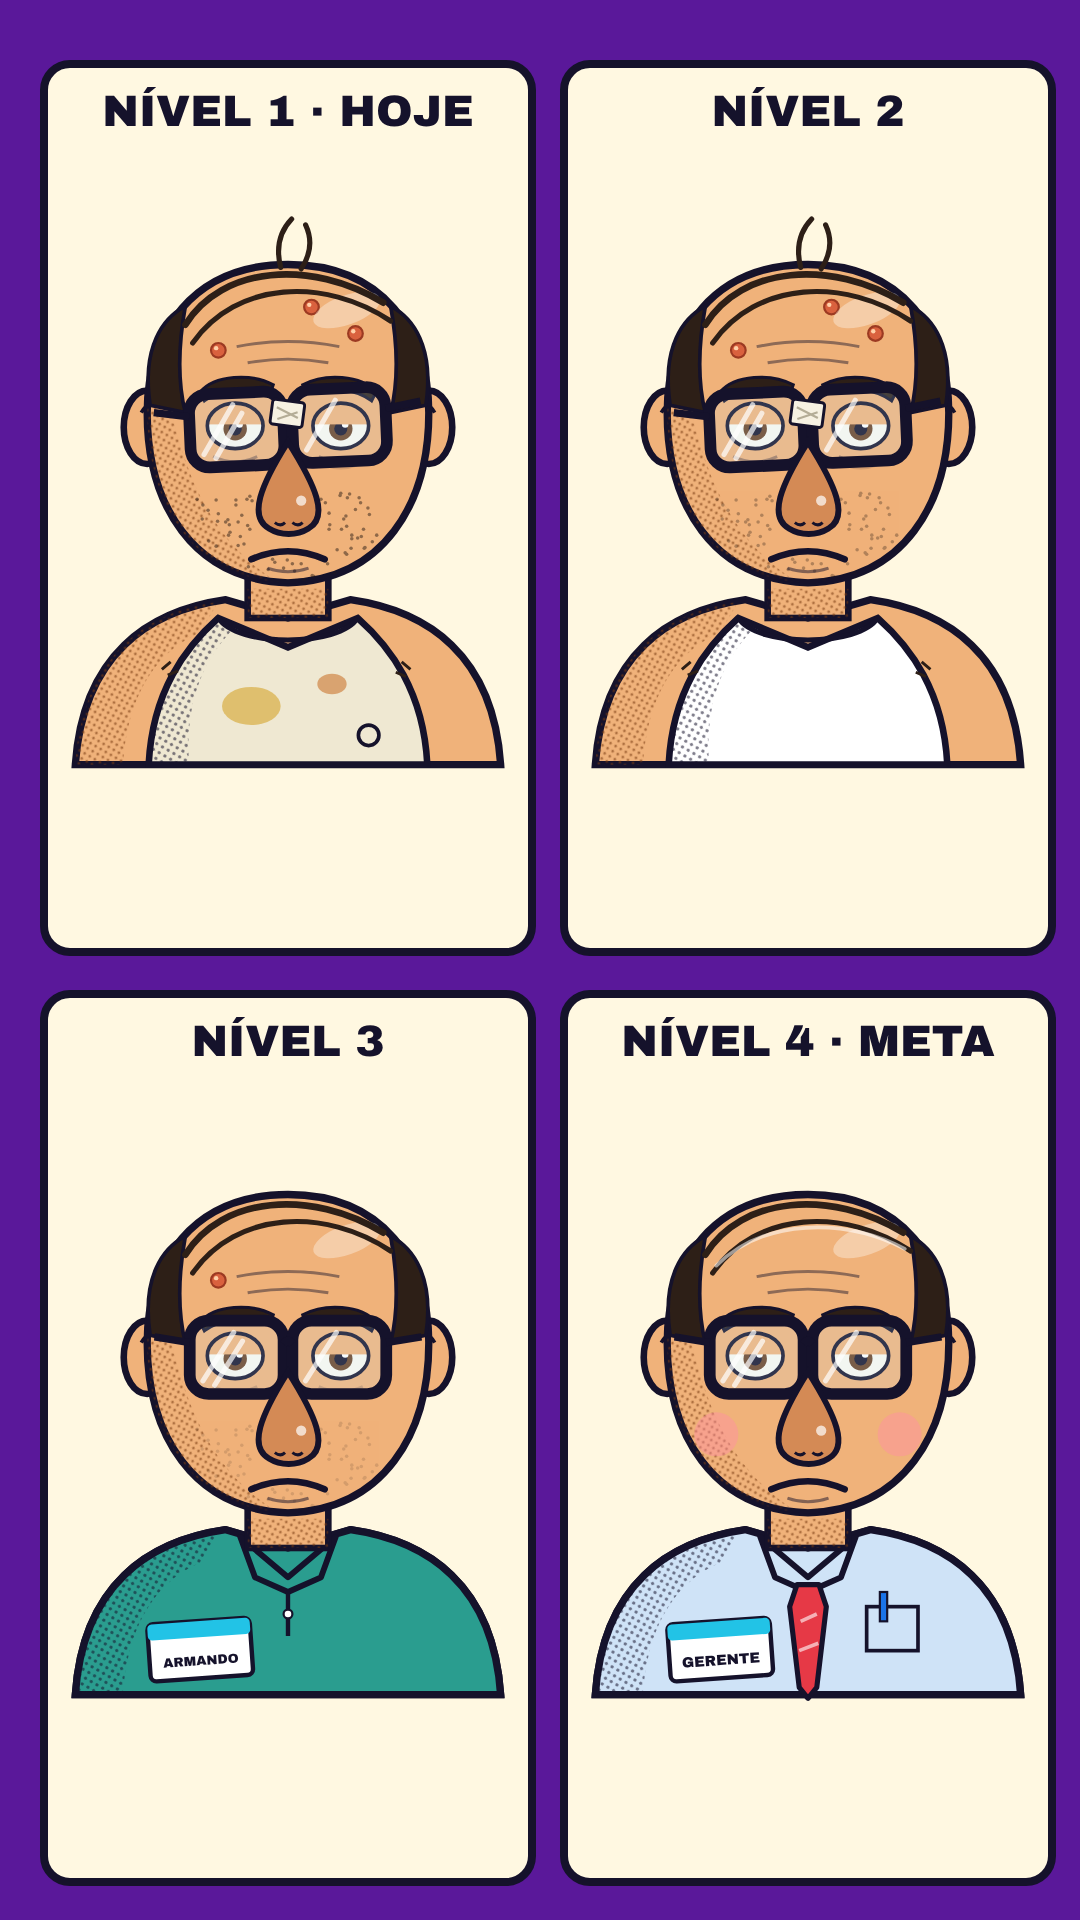
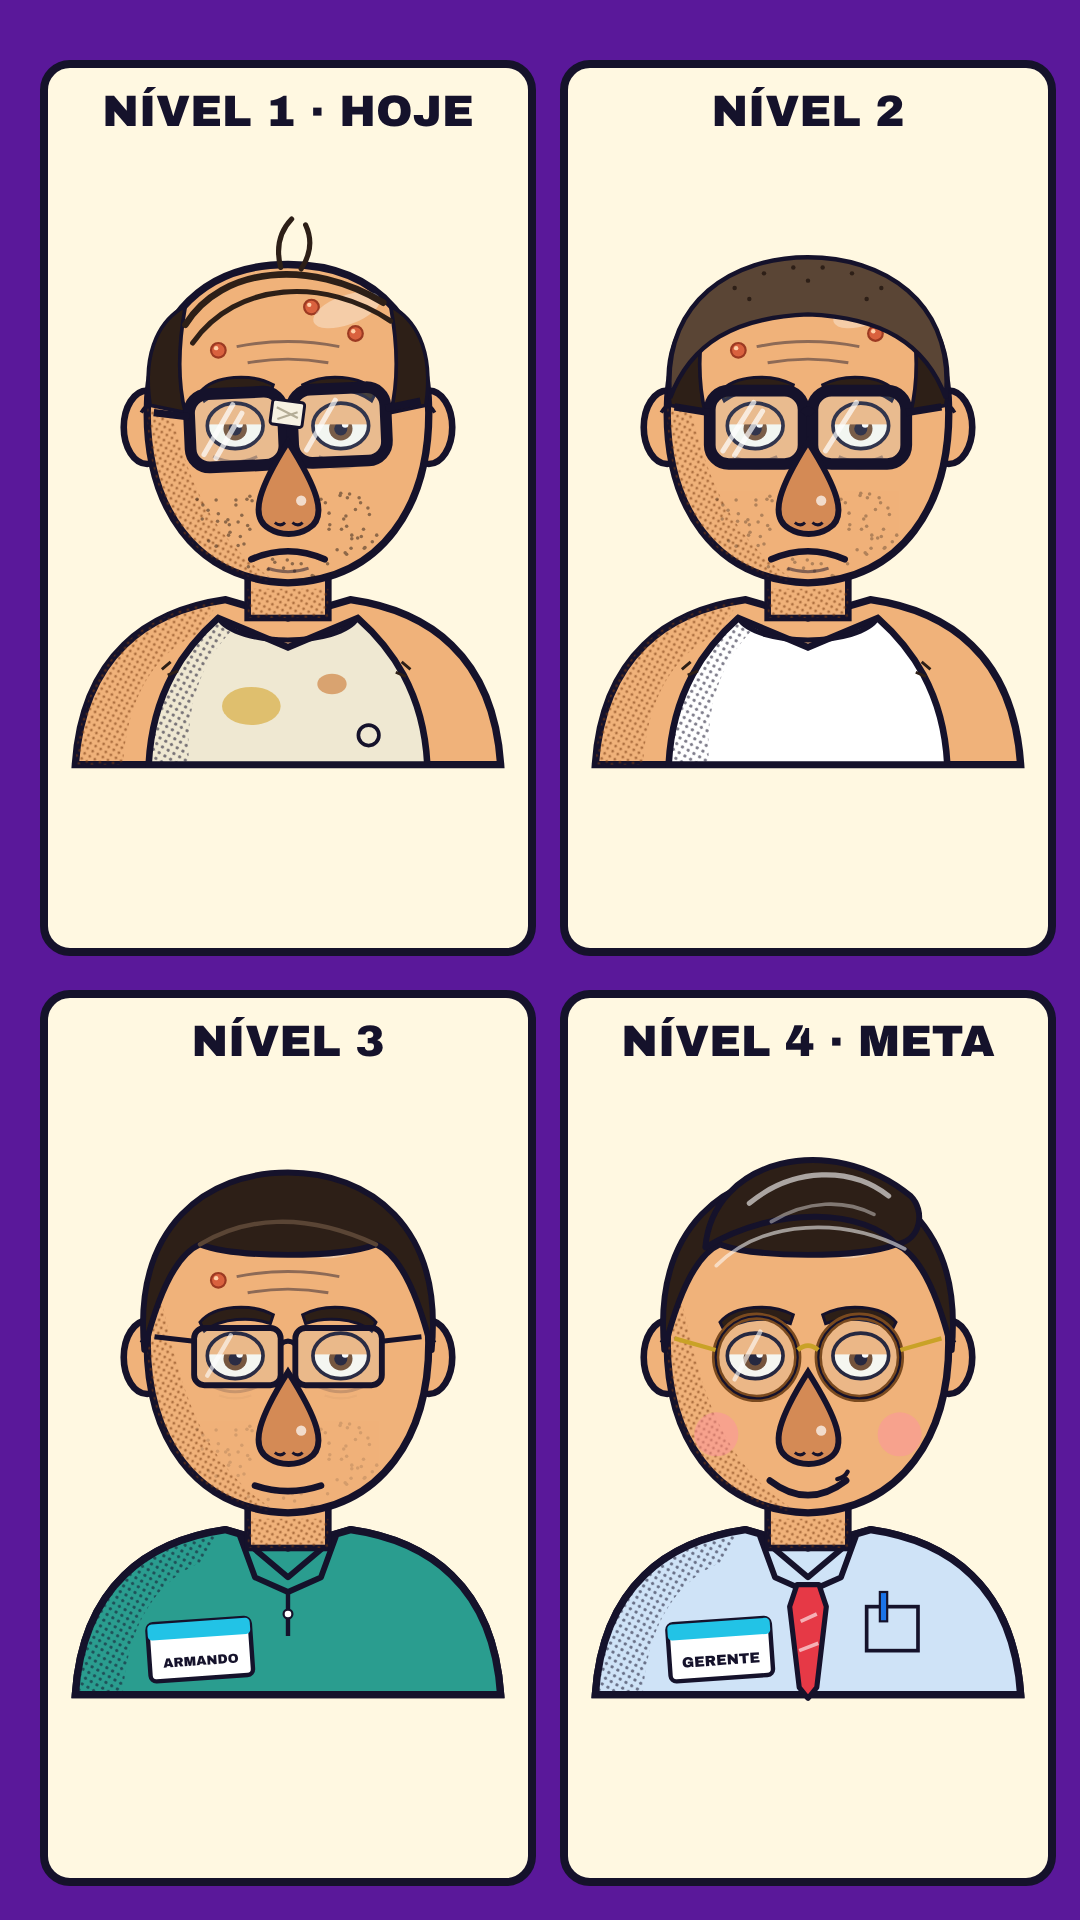
Armando ganha cabelo, troca de óculos e fica mais bonito conforme as barras sobem
Claude-Session: https://claude.ai/code/session_01NohiMdkC2Su1SAJxQxprzv

diff --git a/tools/hq_lib.py b/tools/hq_lib.py
@@ -45,6 +45,66 @@ def _skin(hT):
     return out
 
 
+def _hair(p, lT):
+    """Cabelo por nível de amor (se cuidar): careca → nascendo → curto → topete."""
+    sides = (f'<path d="M112 310 C100 230 130 190 160 175 C150 230 150 280 160 320 Z" fill="{HAIR}" stroke="{INK}" stroke-width="5"/>'
+             f'<path d="M488 310 C500 230 470 190 440 175 C450 230 450 280 440 320 Z" fill="{HAIR}" stroke="{INK}" stroke-width="5"/>')
+    if lT == 0:
+        return sides + (f'<path d="M160 200 C210 120 330 110 430 170" fill="none" stroke="{HAIR}" stroke-width="9" stroke-linecap="round"/>'
+                        f'<path d="M170 225 C230 140 350 135 440 195" fill="none" stroke="{HAIR}" stroke-width="7" stroke-linecap="round"/>')
+    if lT == 1:  # raspado, nascendo
+        return sides + (f'<path d="M112 300 C100 165 200 108 300 108 C400 108 500 165 488 300 C460 225 400 190 300 186 C200 190 140 225 112 300 Z" '
+                        f'fill="#5a4535" stroke="{INK}" stroke-width="6"/>'
+                        f'<g fill="#2d1f17">{"".join(f"<circle cx=\"{x}\" cy=\"{y}\" r=\"3\"/>" for x, y in [(200, 150), (240, 130), (280, 122), (320, 122), (360, 130), (400, 150), (220, 165), (300, 140), (380, 165)])}</g>')
+    full = (f'<path d="M104 330 C88 160 190 88 300 88 C410 88 512 160 496 330 C476 250 452 200 420 186 C370 205 230 205 180 186 C148 200 124 250 104 330 Z" '
+            f'fill="{HAIR}" stroke="{INK}" stroke-width="8" stroke-linejoin="round"/>')
+    if lT == 2:  # curto, penteado de lado
+        return full + f'<path d="M180 186 C240 150 320 140 420 186" fill="none" stroke="#5a4535" stroke-width="6" stroke-linecap="round"/>'
+    # topete com brilho
+    return (full + f'<path d="M160 190 C170 70 330 30 440 120 C460 140 455 180 420 186 C380 140 260 130 160 190 Z" fill="{HAIR}" stroke="{INK}" stroke-width="8" stroke-linejoin="round"/>'
+            f'<path d="M220 130 C280 80 360 80 410 120" fill="none" stroke="#fff" stroke-width="7" stroke-linecap="round" opacity=".6"/>'
+            f'<path d="M250 155 C300 125 350 125 390 145" fill="none" stroke="#fff" stroke-width="5" stroke-linecap="round" opacity=".4"/>')
+
+
+def _glasses(mT):
+    """Óculos por nível de dinheiro: fita → inteiro → moderno → de grife."""
+    if mT <= 1:
+        tape = (f'<rect x="278" y="304" width="44" height="34" rx="4" fill="#f6f1e2" stroke="{INK}" stroke-width="4" transform="rotate(10 300 321)"/>'
+                f'<path d="M286 312 l28 16 M286 328 l28 -8" stroke="#b4ad97" stroke-width="3"/>') if mT == 0 else ""
+        return f'''<g transform="rotate({-2.5 if mT == 0 else 0} 300 340)">
+      <rect x="166" y="290" width="128" height="100" rx="26" fill="rgba(200,235,255,.16)" stroke="{INK}" stroke-width="16"/>
+      <rect x="306" y="290" width="128" height="100" rx="26" fill="rgba(200,235,255,.16)" stroke="{INK}" stroke-width="16"/>
+      <path d="M184 372 L226 306 M200 378 L238 318" stroke="#fff" stroke-width="7" stroke-linecap="round" opacity=".7"/>
+      <path d="M324 372 L366 306" stroke="#fff" stroke-width="7" stroke-linecap="round" opacity=".7"/>
+      <path d="M294 322 Q300 314 306 322" stroke="{INK}" stroke-width="12" fill="none"/>{tape}
+      <path d="M166 320 L118 312 M434 320 L482 312" stroke="{INK}" stroke-width="10"/></g>'''
+    if mT == 2:  # armação moderna fina
+        return f'''<g>
+      <rect x="172" y="300" width="118" height="78" rx="14" fill="rgba(200,235,255,.12)" stroke="{INK}" stroke-width="8"/>
+      <rect x="310" y="300" width="118" height="78" rx="14" fill="rgba(200,235,255,.12)" stroke="{INK}" stroke-width="8"/>
+      <path d="M290 322 Q300 314 310 322" stroke="{INK}" stroke-width="7" fill="none"/>
+      <path d="M190 365 L222 310" stroke="#fff" stroke-width="6" stroke-linecap="round" opacity=".6"/>
+      <path d="M172 318 L118 312 M428 318 L482 312" stroke="{INK}" stroke-width="7"/></g>'''
+    # redondos de grife (tartaruga)
+    return f'''<g>
+      <circle cx="230" cy="340" r="56" fill="rgba(200,235,255,.1)" stroke="#7a4a1f" stroke-width="10"/>
+      <circle cx="370" cy="340" r="56" fill="rgba(200,235,255,.1)" stroke="#7a4a1f" stroke-width="10"/>
+      <circle cx="230" cy="340" r="56" fill="none" stroke="{INK}" stroke-width="3"/><circle cx="370" cy="340" r="56" fill="none" stroke="{INK}" stroke-width="3"/>
+      <path d="M286 330 Q300 318 314 330" stroke="#c9a227" stroke-width="6" fill="none"/>
+      <path d="M200 370 L235 305" stroke="#fff" stroke-width="6" stroke-linecap="round" opacity=".6"/>
+      <path d="M174 330 L118 314 M426 330 L482 314" stroke="#c9a227" stroke-width="6"/></g>'''
+
+
+def _rest_mouth(score):
+    """Boca "parada": triste no começo, neutra no meio, sorriso confiante no fim."""
+    if score >= 9:
+        return f'<path d="M248 508 Q300 548 352 508" fill="none" stroke="{INK}" stroke-width="9" stroke-linecap="round"/><path d="M340 506 q10 -2 14 -10" stroke="{INK}" stroke-width="6" fill="none" stroke-linecap="round"/>'
+    if score >= 6:
+        return f'<path d="M255 515 Q300 530 345 515" fill="none" stroke="{INK}" stroke-width="9" stroke-linecap="round"/>'
+    return (f'<path d="M250 520 Q300 498 350 520" fill="none" stroke="{INK}" stroke-width="9" stroke-linecap="round"/>'
+            f'<path d="M272 532 Q300 542 328 532" fill="none" stroke="{INK}" stroke-width="4" opacity=".5"/>')
+
+
 def _clothes(p, mT, rT):
     """Roupa por nível de dinheiro (+ crachá/gravata pela reputação)."""
     shade = f'<path d="M110 800 C115 700 160 640 205 600 L230 610 C180 660 160 720 165 800 Z" fill="url(#{p}-dots)"/>'
@@ -79,9 +139,9 @@ def _clothes(p, mT, rT):
 def visual_changes(before, after):
     """Lista do que mudou na aparência entre dois estados de barras (para a cena de UPGRADE)."""
     txt = {
-        "health": [["muitas espinhas", "pele amarelada", "olheiras fundas"], ["menos espinhas", "olheiras menores"], ["quase sem espinhas", "olheiras quase sumindo"], ["pele limpa", "sem olheiras", "bochechas coradas"]],
-        "money": [["regata furada e manchada", "óculos com fita"], ["regata nova e limpa"], ["camisa polo", "óculos consertados"], ["camisa social", "caneta no bolso"]],
-        "love": [["barba por fazer", "cabelo arrepiado"], ["barba mais aparada"], ["barba feita", "cabelo penteado"], ["cara lisinha", "cabelo com brilho"]],
+        "health": [["muitas espinhas", "pele amarelada", "olheiras fundas"], ["menos espinhas", "olheiras menores"], ["quase sem espinhas", "olheiras quase sumindo"], ["pele limpa", "sem olheiras", "sem papada"]],
+        "money": [["regata furada e manchada", "óculos com fita"], ["regata nova e limpa", "óculos sem fita"], ["camisa polo", "óculos modernos"], ["camisa social", "óculos de grife"]],
+        "love": [["barba por fazer", "careca"], ["barba aparada", "cabelo nascendo"], ["barba feita", "cabelo curto penteado"], ["cara lisinha", "topete com brilho"]],
         "rep": [["ninguém conhece"], ["sem crachá"], ["crachá da empresa"], ["gravata", "crachá de GERENTE"]],
     }
     icons = {"health": "❤", "money": "💰", "love": "💘", "rep": "⭐"}
@@ -114,7 +174,7 @@ def armando(p, pose="none", bags=None, stats=None):
     if bags is None:
         bags = [1.0, .6, .3, 0.0][hT] if stats else 1.0
     stub_op = [.5, .32, .14, 0][lT]
-    stray = lT < 2
+    stray = lT < 1
     taped = mT < 2
 
     def eye(side, cx):
@@ -196,14 +256,11 @@ def armando(p, pose="none", bags=None, stats=None):
       {_skin(hT)}
       <ellipse cx="380" cy="180" rx="48" ry="20" fill="#fff" opacity=".35" transform="rotate(-20 380 180)"/>
     </g>
-    <path d="M200 525 Q300 575 400 525" fill="none" stroke="{INK}" stroke-width="5" opacity=".6"/>
-    <path d="M112 310 C100 230 130 190 160 175 C150 230 150 280 160 320 Z" fill="{HAIR}" stroke="{INK}" stroke-width="5"/>
-    <path d="M488 310 C500 230 470 190 440 175 C450 230 450 280 440 320 Z" fill="{HAIR}" stroke="{INK}" stroke-width="5"/>
-    <path d="M160 200 C210 120 330 110 430 170" fill="none" stroke="{HAIR}" stroke-width="9" stroke-linecap="round"/>
-    <path d="M170 225 C230 140 350 135 440 195" fill="none" stroke="{HAIR}" stroke-width="7" stroke-linecap="round"/>
+    {'<path d="M200 525 Q300 575 400 525" fill="none" stroke="' + INK + '" stroke-width="5" opacity=".6"/>' if hT < 3 else '<path d="M230 540 Q300 560 370 540" fill="none" stroke="' + INK + '" stroke-width="4" opacity=".35"/>'}
+    {_hair(p, lT)}
     {'<path d="M290 122 q-10 -40 15 -66 M318 124 q20 -30 6 -60" fill="none" stroke="' + HAIR + '" stroke-width="7" stroke-linecap="round"/>' if stray else ''}
     {'<path d="M175 215 C240 150 350 150 432 192" fill="none" stroke="#fff" stroke-width="5" stroke-linecap="round" opacity=".55"/>' if lT == 3 else ''}
-    <path d="M230 230 q70 -14 140 0 M245 252 q55 -10 110 0" fill="none" stroke="{INK}" stroke-width="4" opacity=".45"/>
+    {'<path d="M230 230 q70 -14 140 0 M245 252 q55 -10 110 0" fill="none" stroke="' + INK + '" stroke-width="4" opacity=".45"/>' if hT < 3 else ''}
     <g id="{p}-br-sad" fill="{HAIR}" stroke="{INK}" stroke-width="4">
       <path d="M180 292 C200 268 250 266 280 282 L276 294 C250 284 210 286 186 304 Z"/>
       <path d="M420 292 C400 268 350 266 320 282 L324 294 C350 284 390 286 414 304 Z"/></g>
@@ -216,20 +273,11 @@ def armando(p, pose="none", bags=None, stats=None):
     <g id="{p}-br-angry" opacity="0" fill="{HAIR}" stroke="{INK}" stroke-width="4">
       <path d="M182 268 L284 300 L280 312 L186 286 Z"/><path d="M418 268 L316 300 L320 312 L414 286 Z"/></g>
     {eye("l", 228)}{eye("r", 372)}
-    <g transform="rotate({-2.5 if taped else 0} 300 340)">
-      <rect x="166" y="290" width="128" height="100" rx="26" fill="rgba(200,235,255,.16)" stroke="{INK}" stroke-width="16"/>
-      <rect x="306" y="290" width="128" height="100" rx="26" fill="rgba(200,235,255,.16)" stroke="{INK}" stroke-width="16"/>
-      <path d="M184 372 L226 306 M200 378 L238 318" stroke="#fff" stroke-width="7" stroke-linecap="round" opacity=".7"/>
-      <path d="M324 372 L366 306" stroke="#fff" stroke-width="7" stroke-linecap="round" opacity=".7"/>
-      <path d="M294 322 Q300 314 306 322" stroke="{INK}" stroke-width="12" fill="none"/>
-      {'<rect x="278" y="304" width="44" height="34" rx="4" fill="#f6f1e2" stroke="' + INK + '" stroke-width="4" transform="rotate(10 300 321)"/><path d="M286 312 l28 16 M286 328 l28 -8" stroke="#b4ad97" stroke-width="3"/>' if taped else ''}
-      <path d="M166 320 L118 312 M434 320 L482 312" stroke="{INK}" stroke-width="10"/>
-    </g>
+    {_glasses(mT)}
     <path d="M300 360 C262 420 246 462 274 478 C290 488 312 488 328 478 C356 462 338 420 300 360 Z" fill="{SKIN_SH}" stroke="{INK}" stroke-width="8"/>
     <circle cx="318" cy="440" r="7" fill="#fff" opacity=".7"/>
     <path d="M282 470 q8 6 14 0 M306 470 q8 6 14 0" fill="none" stroke="{INK}" stroke-width="4"/>
-    <g id="{p}-m-sad"><path d="M250 520 Q300 498 350 520" fill="none" stroke="{INK}" stroke-width="9" stroke-linecap="round"/>
-      <path d="M272 532 Q300 542 328 532" fill="none" stroke="{INK}" stroke-width="4" opacity=".5"/></g>
+    <g id="{p}-m-sad">{_rest_mouth(mT + hT + lT + rT)}</g>
     <g id="{p}-m-chew" opacity="0"><path d="M258 500 Q300 490 342 500 Q338 548 300 550 Q262 548 258 500 Z" fill="#5a1f26" stroke="{INK}" stroke-width="8"/>
       <path d="M285 505 q-4 30 6 60 M305 503 q6 30 -2 70" stroke="#ffd77a" stroke-width="7" fill="none" stroke-linecap="round"/></g>
     <ellipse id="{p}-m-shock" opacity="0" cx="300" cy="518" rx="26" ry="34" fill="#5a1f26" stroke="{INK}" stroke-width="8"/>

diff --git a/SERIE-CHAT-CONTROLA.md b/SERIE-CHAT-CONTROLA.md
@@ -48,10 +48,12 @@ Gancho para fechar cada episódio: *"Faltam X dias… e o Rodrigo tá de olho."*
 
 | Barra | Nível 1 (0–25) | Nível 2 (26–50) | Nível 3 (51–69) | Nível 4 (70+) |
 | --- | --- | --- | --- | --- |
-| ❤ Saúde | muitas espinhas, pele amarelada, olheiras fundas | menos espinhas, olheiras menores | quase sem espinhas | pele limpa, sem olheiras, bochechas coradas |
-| 💰 Dinheiro | regata furada e manchada, óculos com fita | regata nova e limpa | camisa polo, óculos consertados | camisa social, caneta no bolso |
-| 💘 Amor | barba por fazer, cabelo arrepiado | barba mais aparada | barba feita, cabelo penteado | cara lisinha, cabelo com brilho |
+| ❤ Saúde | muitas espinhas, pele amarelada, olheiras fundas | menos espinhas, olheiras menores | quase sem espinhas | pele limpa, sem olheiras, sem papada nem rugas |
+| 💰 Dinheiro | regata furada e manchada, óculos com fita | regata nova e limpa, óculos sem fita | camisa polo, óculos modernos de armação fina | camisa social, óculos redondos de grife |
+| 💘 Amor | barba por fazer, careca com fios de lado | barba aparada, cabelo raspado nascendo | barba feita, cabelo curto penteado | cara lisinha, topete com brilho |
 | ⭐ Reputação | — | — | crachá da empresa | gravata e crachá de GERENTE |
+
+**A expressão também muda:** quanto mais alto o conjunto das barras, mais confiante fica a cara "parada" dele (triste → neutra → sorriso de canto).
 
 **Todo episódio tem a cena "O QUE MUDOU"** (`tools/upgrade_scene.py`), logo depois das barras: o Armando ANTES e DEPOIS lado a lado, as barras que mudaram (ex.: 💰 20 → 30) e a lista do que mudou ("💰 UPGRADE: regata nova e limpa"). Se nenhuma barra mudou de nível, a cena mostra quanto falta para o próximo visual ("Falta 5 de ❤ pro próximo visual 👀").
 
